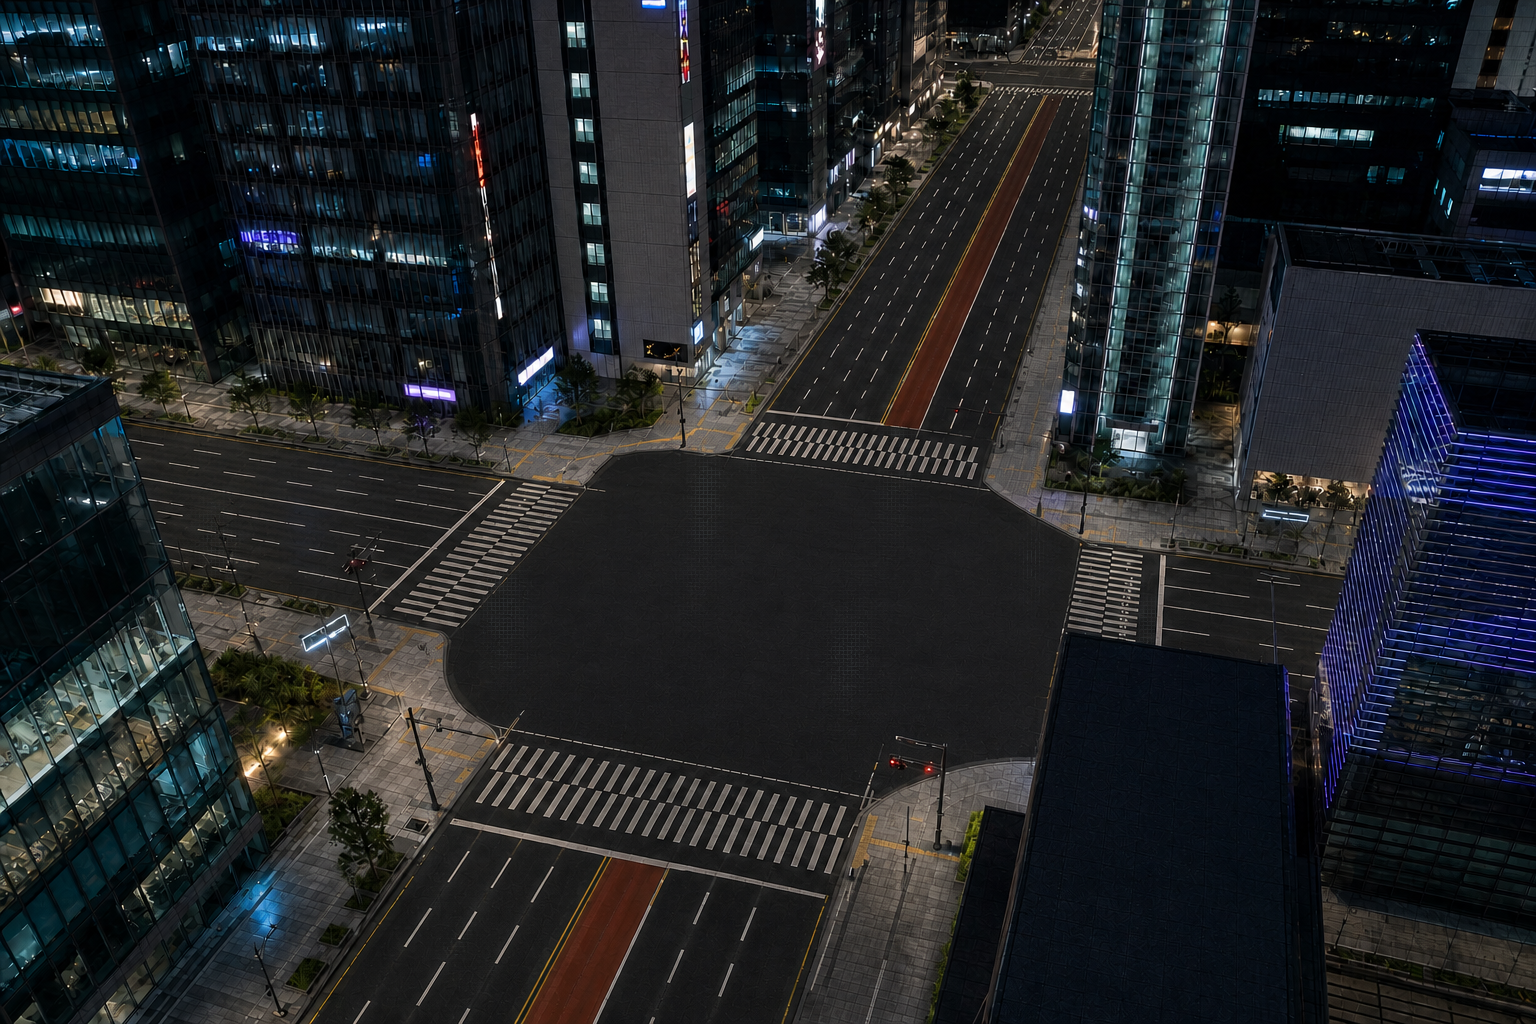
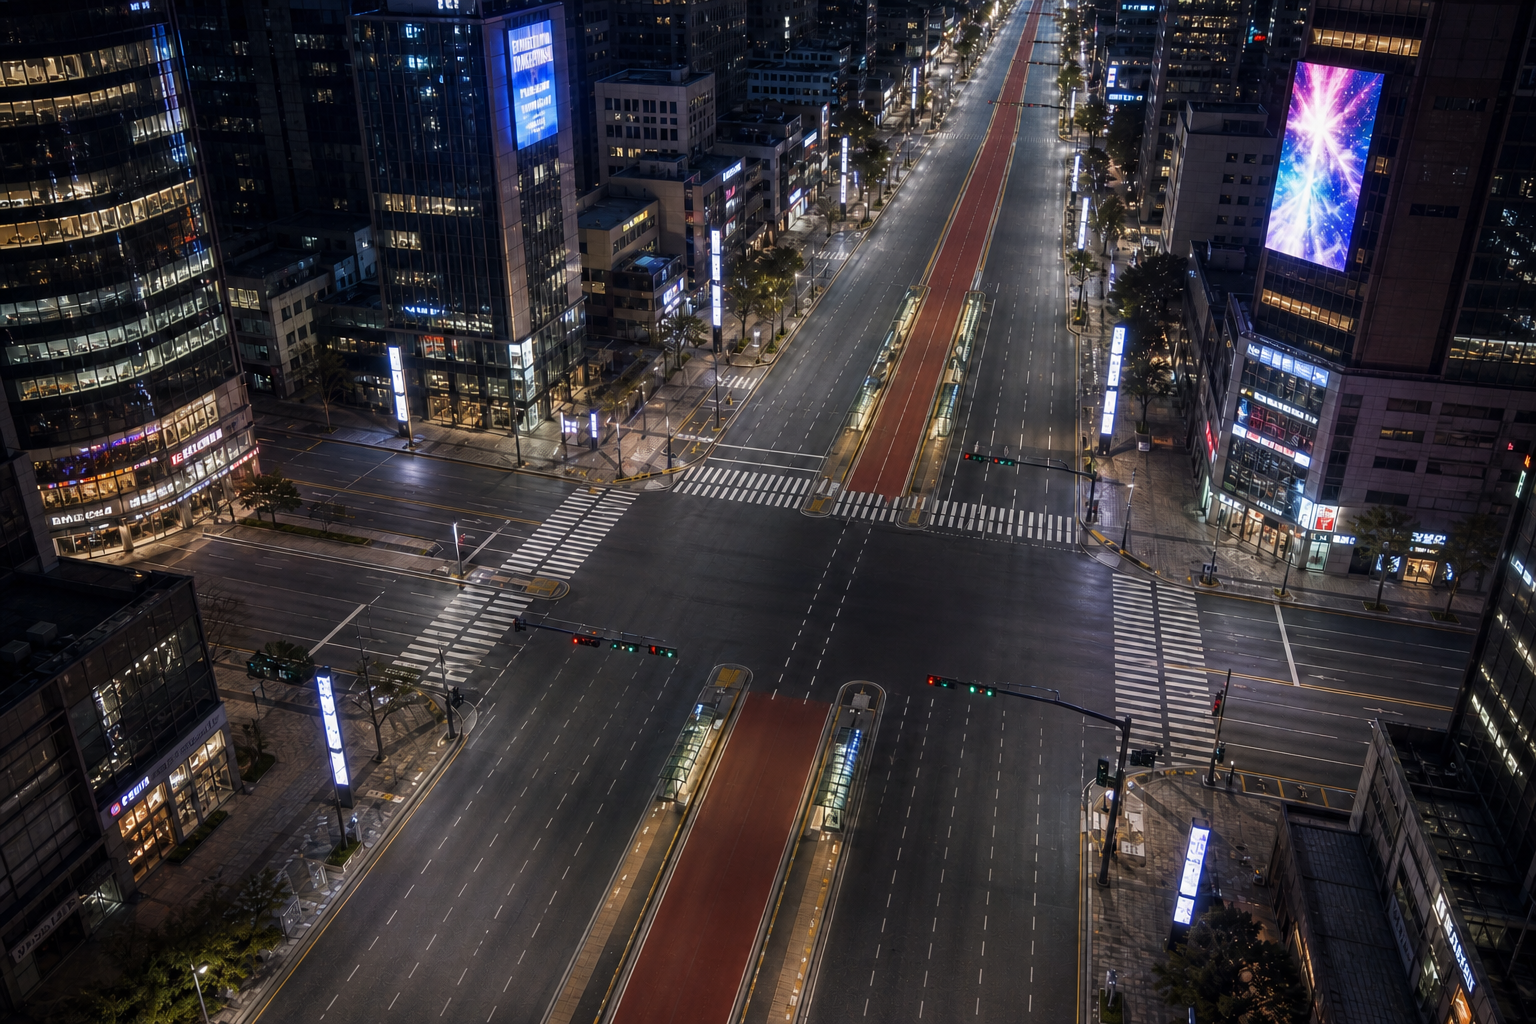
feat(r3f): mount real 강남역 SP2 plates (4) + relax compliance to real-location reconstruction
Claude-Session: https://claude.ai/code/session_01BVTPmSqzERB4XRuUPD9L5M

diff --git a/docs/compliance/r3f-asset-licenses.md b/docs/compliance/r3f-asset-licenses.md
@@ -29,20 +29,25 @@ Stage 6/post-Stage-6 manifest-derived licensing and provenance table for runtime
 | `textures/sidewalk_paver_variation` | `/simulation/r3f/assets/textures/sidewalk_paver_variation.webp` | texture | project-authored-procedural-texture | Project-authored generated runtime texture/decal; no external third-party texture source | Project-authored deterministic Sharp texture regenerated for Stage 4.1; Image Gen used only as non-runtime material direction and runtime proof is deferred to later browser screenshots. | generated | baseColor | webp-runtime; geometry=not-applicable; texture=webp | `apps/web/public/simulation/r3f/assets/textures/PROVENANCE.md` |  |  |
 | `textures/facade_window_emissive` | `/simulation/r3f/assets/textures/facade_window_emissive.webp` | texture | project-authored-procedural-texture | Project-authored generated runtime texture/decal; no external third-party texture source | Project-authored deterministic Sharp texture regenerated for Stage 4.1; Image Gen used only as non-runtime material direction and runtime proof is deferred to later browser screenshots. | generated | emissive | webp-runtime; geometry=not-applicable; texture=webp | `apps/web/public/simulation/r3f/assets/textures/PROVENANCE.md` |  |  |
 | `sprites/stage6_weather_material_source_atlas` | `/simulation/r3f/assets/sprites/stage6-weather-material-source-atlas.png` | sprite | built-in-imagegen-generated-source-atlas | Project-authored generated source atlas via built-in ImageGen; no external third-party asset source, logos, text, watermarks, or downloads | Built-in ImageGen source atlas copied into the project from the primary agent's generated output; no external downloads, stock packs, third-party assets, logos, text, or watermarks were used. Runtime proof must come from browser-rendered R3F evidence, not this source atlas alone. | generated | sourceColor | png-source-atlas; geometry=not-applicable; texture=png-truecolor-source | `apps/web/public/simulation/r3f/assets/textures/PROVENANCE.md` |  |  |
-| `plates/gangnam_night_operator_wide` | `/simulation/r3f/assets/plates/gangnam_night_operator_wide.png` | texture | imagegen-generated-night-plate | Project-generated via imagegen; no real brands, logos, or store names; provenance in docs/compliance/r3f-asset-licenses.md | Imagegen-generated Gangnam Teheran-ro night plate (1536x1024), conditioned on a structural guide rendered from the actual R3F scene layout. No real brands, logos, or store names (signage abstract/illegible); background visual only and never a vehicle/pedestrian/signal truth surface. Runtime proof must come from browser-rendered night frames. | generated | sourceColor | png-source-atlas; geometry=not-applicable; texture=png-source-atlas | `docs/compliance/r3f-asset-licenses.md` |  |  |
-| `plates/gangnam_day_operator_wide` | `/simulation/r3f/assets/plates/gangnam_day_operator_wide.png` | texture | imagegen-generated-day-plate | Project-generated via imagegen; no real brands, logos, or store names; provenance in docs/compliance/r3f-asset-licenses.md | Imagegen-generated Gangnam Teheran-ro daytime plate (1536x1024), derived img2img from the night plate to keep an identical road and building layout. No real brands, logos, or store names (signage abstract/illegible); background visual only and never a vehicle/pedestrian/signal truth surface. Runtime proof must come from browser-rendered day frames. | generated | sourceColor | png-source-atlas; geometry=not-applicable; texture=png-source-atlas | `docs/compliance/r3f-asset-licenses.md` |  |  |
-| `plates/gangnam_night_operator_cctv` | `/simulation/r3f/assets/plates/gangnam_night_operator_cctv.webp` | texture | imagegen-generated-night-cctv-plate | Project-generated via imagegen; no real brands, logos, or store names; provenance in docs/compliance/r3f-asset-licenses.md | Imagegen-generated night CCTV-style low-oblique plate (1536x1024) of the same Gangnam Teheran-ro intersection, generated from a structural guide rendered at the operator-cctv camera so it aligns with that camera. No real brands, logos, or store names; background visual only and never a vehicle/pedestrian/signal truth surface. Runtime proof must come from browser-rendered night frames. | generated | sourceColor | webp-runtime; geometry=not-applicable; texture=webp | `docs/compliance/r3f-asset-licenses.md` |  |  |
-| `plates/gangnam_day_operator_cctv` | `/simulation/r3f/assets/plates/gangnam_day_operator_cctv.webp` | texture | imagegen-generated-day-cctv-plate | Project-generated via imagegen; no real brands, logos, or store names; provenance in docs/compliance/r3f-asset-licenses.md | Imagegen-generated daytime CCTV-style low-oblique plate (1536x1024) of the same Gangnam Teheran-ro intersection, generated from a structural guide rendered at the operator-cctv camera so it aligns with that camera. No real brands, logos, or store names; background visual only and never a vehicle/pedestrian/signal truth surface. Runtime proof must come from browser-rendered day frames. | generated | sourceColor | webp-runtime; geometry=not-applicable; texture=webp | `docs/compliance/r3f-asset-licenses.md` |  |  |
+| `plates/gangnam_night_operator_wide` | `/simulation/r3f/assets/plates/gangnam_night_operator_wide.png` | texture | photoreal-reconstruction-gangnam-station-intersection-night-wide | Project-authored photoreal reconstruction of the real 강남역 사거리 (Gangnam Station intersection); landmark forms and infrastructure derived from the real location; all signage is invented Gangnam-style (clinics/academies/cafes); no real brand logos or trademarks; background-visual-only | Photoreal reconstruction of the real 강남역 사거리 (Gangnam Station intersection), high-aerial wide view at night (1536x1024): wide 강남대로 with bidirectional central red median busway and median bus-stop island platforms (empty roads — overlay surface); Korean horizontal 4-aspect cantilever traffic signals and pedestrian signals; 4-way zebra crosswalks; glowing media poles; LED billboards; Samsung-Town-style glass towers SW; glass-and-steel canyon; plane trees. All signage is invented Gangnam-style (clinics/academies/cafes); no real brand logos or trademarks. Background-visual-only, never a vehicle/pedestrian/signal truth surface. Runtime proof must come from browser-rendered night frames. | generated | sourceColor | png-source-atlas; geometry=not-applicable; texture=png-source-atlas | `docs/compliance/r3f-asset-licenses.md` |  |  |
+| `plates/gangnam_day_operator_wide` | `/simulation/r3f/assets/plates/gangnam_day_operator_wide.png` | texture | photoreal-reconstruction-gangnam-station-intersection-day-wide | Project-authored photoreal reconstruction of the real 강남역 사거리 (Gangnam Station intersection); landmark forms and infrastructure derived from the real location; all signage is invented Gangnam-style (clinics/academies/cafes); no real brand logos or trademarks; background-visual-only | Photoreal reconstruction of the real 강남역 사거리 (Gangnam Station intersection), high-aerial wide view at daytime (1536x1024): wide 강남대로 with bidirectional central red median busway and median bus-stop island platforms (empty roads — overlay surface); Korean horizontal 4-aspect cantilever traffic signals and pedestrian signals; 4-way zebra crosswalks; media poles; LED billboards; Samsung-Town-style glass towers SW; glass-and-steel canyon; plane trees. All signage is invented Gangnam-style (clinics/academies/cafes); no real brand logos or trademarks. Background-visual-only, never a vehicle/pedestrian/signal truth surface. Runtime proof must come from browser-rendered day frames. | generated | sourceColor | png-source-atlas; geometry=not-applicable; texture=png-source-atlas | `docs/compliance/r3f-asset-licenses.md` |  |  |
+| `plates/gangnam_night_operator_cctv` | `/simulation/r3f/assets/plates/gangnam_night_operator_cctv.webp` | texture | photoreal-reconstruction-gangnam-station-intersection-night-cctv | Project-authored photoreal reconstruction of the real 강남역 사거리 (Gangnam Station intersection); landmark forms and infrastructure derived from the real location; all signage is invented Gangnam-style (clinics/academies/cafes); no real brand logos or trademarks; background-visual-only | Photoreal reconstruction of the real 강남역 사거리 (Gangnam Station intersection), low-oblique CCTV view at night (1536x1024): wide 강남대로 with bidirectional central red median busway and median bus-stop island platforms (empty roads — overlay surface); Korean horizontal 4-aspect cantilever traffic signals and pedestrian signals; 4-way zebra crosswalks; glowing media poles; LED billboards; Samsung-Town-style glass towers SW; glass-and-steel canyon; plane trees. All signage is invented Gangnam-style (clinics/academies/cafes); no real brand logos or trademarks. Background-visual-only, never a vehicle/pedestrian/signal truth surface. Runtime proof must come from browser-rendered night frames. | generated | sourceColor | webp-runtime; geometry=not-applicable; texture=webp | `docs/compliance/r3f-asset-licenses.md` |  |  |
+| `plates/gangnam_day_operator_cctv` | `/simulation/r3f/assets/plates/gangnam_day_operator_cctv.webp` | texture | photoreal-reconstruction-gangnam-station-intersection-day-cctv | Project-authored photoreal reconstruction of the real 강남역 사거리 (Gangnam Station intersection); landmark forms and infrastructure derived from the real location; all signage is invented Gangnam-style (clinics/academies/cafes); no real brand logos or trademarks; background-visual-only | Photoreal reconstruction of the real 강남역 사거리 (Gangnam Station intersection), low-oblique CCTV view at daytime (1536x1024): wide 강남대로 with bidirectional central red median busway and median bus-stop island platforms (empty roads — overlay surface); Korean horizontal 4-aspect cantilever traffic signals and pedestrian signals; 4-way zebra crosswalks; media poles; LED billboards; Samsung-Town-style glass towers SW; glass-and-steel canyon; plane trees. All signage is invented Gangnam-style (clinics/academies/cafes); no real brand logos or trademarks. Background-visual-only, never a vehicle/pedestrian/signal truth surface. Runtime proof must come from browser-rendered day frames. | generated | sourceColor | webp-runtime; geometry=not-applicable; texture=webp | `docs/compliance/r3f-asset-licenses.md` |  |  |
 | `textures/vehicle_paint_detail` | `/simulation/r3f/assets/textures/vehicle_paint_detail.png` | texture | imagegen-generated-vehicle-paint-texture | Project-generated via imagegen; no real brands, logos, or store names; provenance in docs/compliance/r3f-asset-licenses.md | Imagegen-generated seamless tiling vehicle paint-detail map (1024x1024), tiled over vehicle body UVs as a subtle base-color detail so paint reads as real rather than flat CG. No real brands, logos, or store names. Runtime proof must come from browser-rendered frames. | generated | baseColor | uncompressed-under-budget; geometry=not-applicable; texture=png | `docs/compliance/r3f-asset-licenses.md` |  |  |
 | `textures/vehicle_paint_normal` | `/simulation/r3f/assets/textures/vehicle_paint_normal.png` | texture | derived-from-imagegen-vehicle-paint-texture | Project-generated via imagegen; no real brands, logos, or store names; provenance in docs/compliance/r3f-asset-licenses.md | Tangent-space normal map derived (Sobel) from the imagegen vehicle paint-detail map (1024x1024); adds micro surface relief on vehicle bodies. No real brands, logos, or store names. Runtime proof must come from browser-rendered frames. | generated | normal | uncompressed-under-budget; geometry=not-applicable; texture=png | `docs/compliance/r3f-asset-licenses.md` |  |  |
 
-## Background plates (imagegen-generated)
+## Background plates (photoreal reconstruction of real 강남역 사거리)
 
-- `plates/gangnam_night_operator_wide.png` — generated via the imagegen skill
-  from a SUMO-derived structural guide. Prompt themed "Gangnam Teheran-ro night
-  neon, high-rise glass towers, wet asphalt"; the avoid list excluded all real
-  brands, logos, and store names. Background visual only; not a vehicle,
-  pedestrian, or signal truth surface. The committed file is the generated
-  1536x1024 night plate (allowNonPowerOfTwo: projected onto a backdrop quad).
+- Four plates (`gangnam_{day,night}_operator_{wide,cctv}`) are photoreal
+  reconstructions of the real 강남역 사거리 (Gangnam Station intersection):
+  landmark forms and infrastructure (강남대로 bidirectional central red median
+  busway, bus-stop island platforms, Korean horizontal 4-aspect cantilever
+  traffic signals, pedestrian signals, 4-way zebra crosswalks, glowing media
+  poles, LED billboards, Samsung-Town-style glass towers SW, glass-and-steel
+  canyon, plane trees) are derived from the real location. All signage is
+  invented Gangnam-style (clinics/academies/cafes); no real brand logos or
+  trademarks are present. Background-visual-only; never a vehicle, pedestrian,
+  or signal truth surface. All four plates are 1536x1024 (allowNonPowerOfTwo:
+  projected onto a backdrop quad).
 
 Current third-party R3F runtime assets are limited to the approved Poly Haven CC0 `props/outdoor_table_chair_set_01` street-furniture GLB. Any additional third-party asset must add valid `details.sourceUrl` and `details.licenseDocumentation`, preserve attribution/provenance in the manifest and this table, and pass `npm run verify:r3f-assets` before merge.
